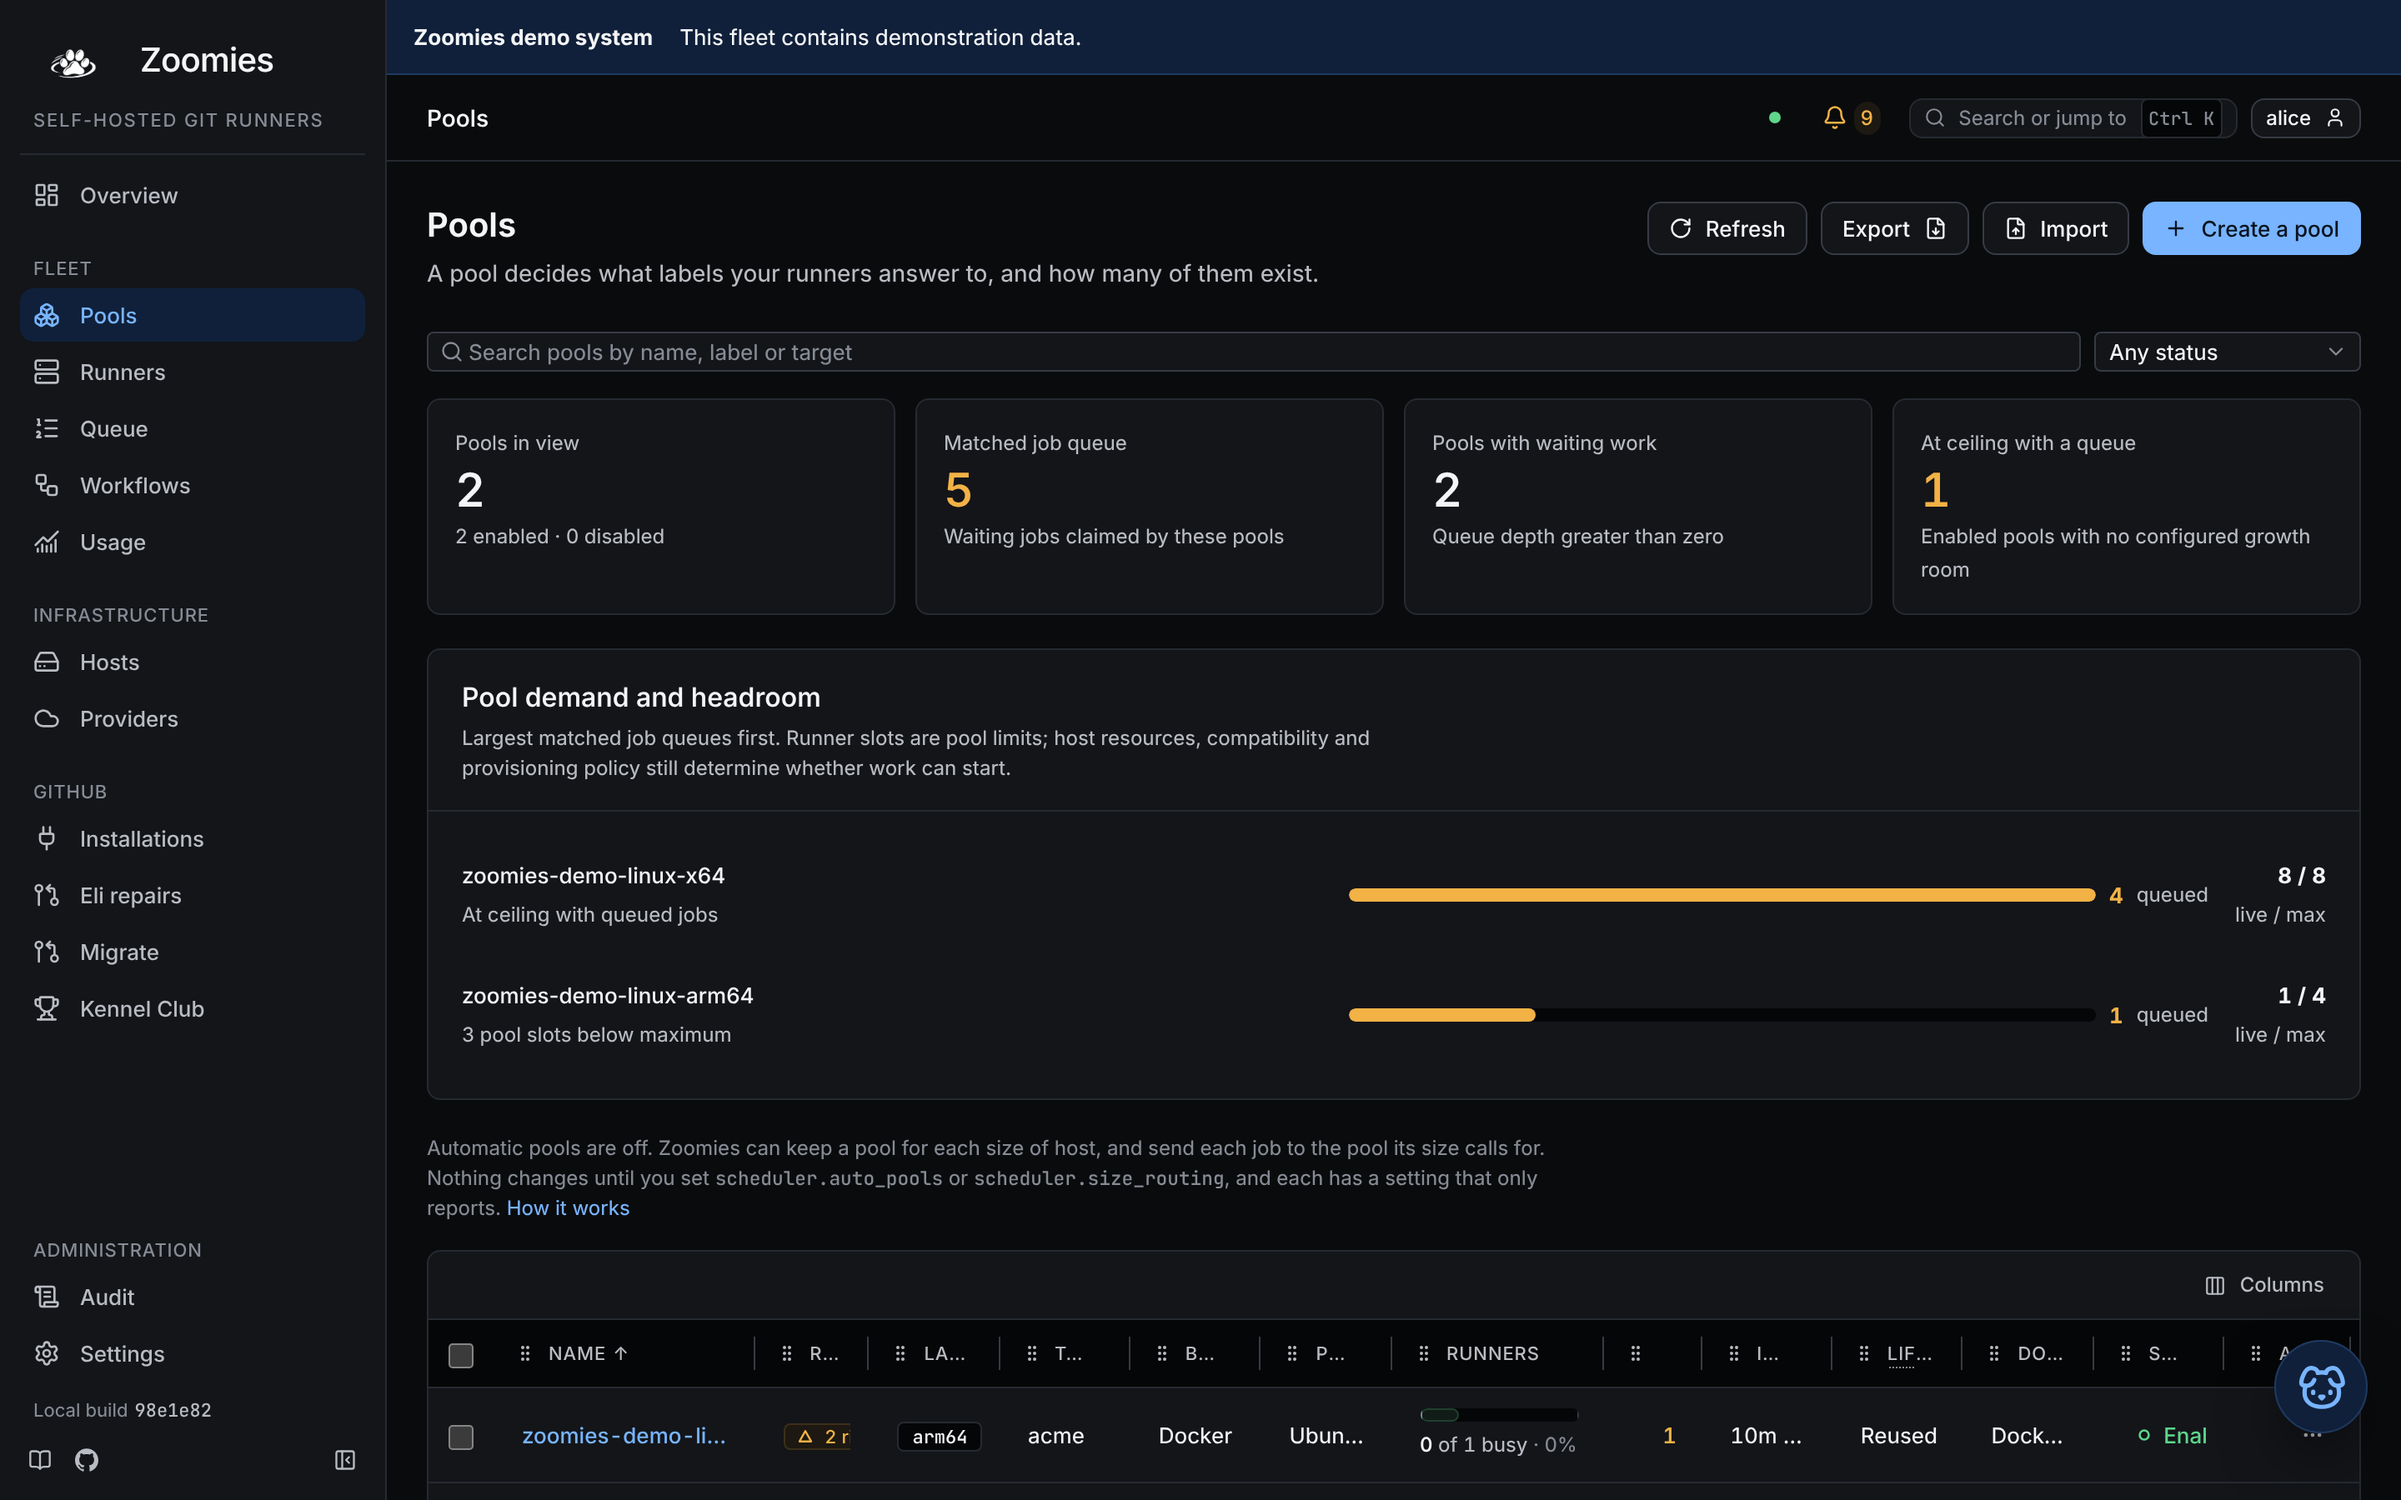
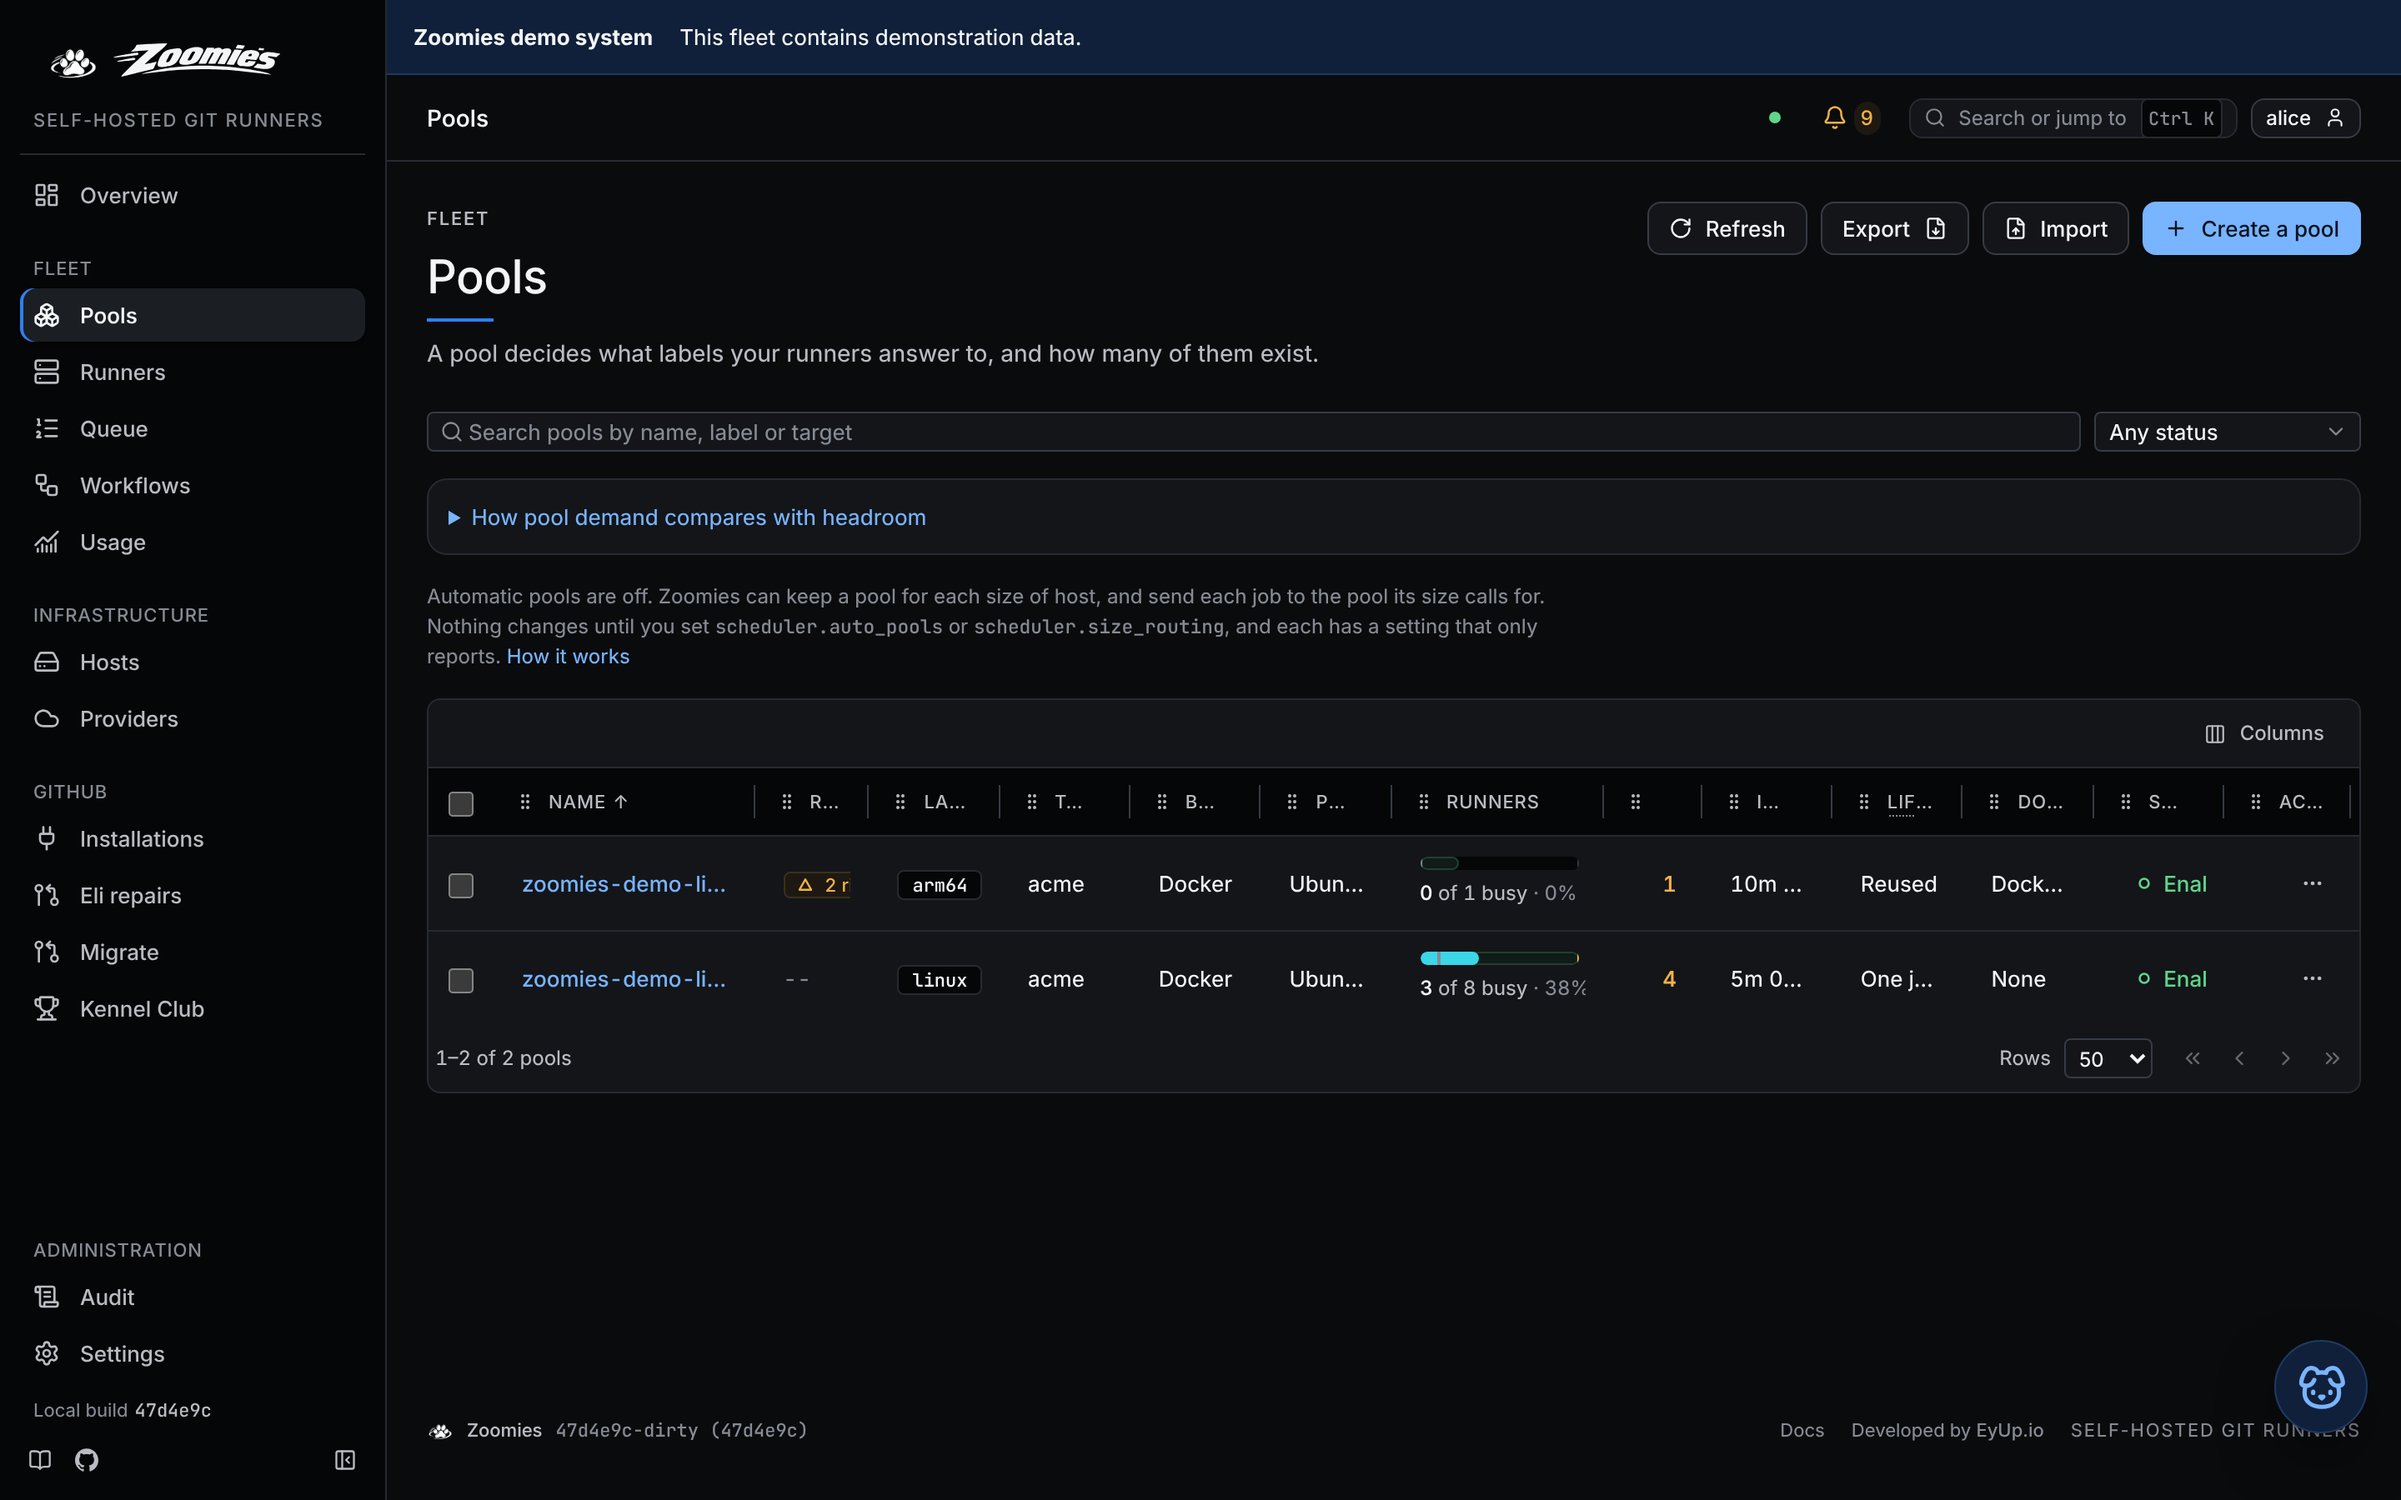
Open the Pools page on the pools
The four tiles go and how demand compares with headroom folds behind a
disclosure, as the Runners page keeps its lifecycle.

Claude-Session: https://claude.ai/code/session_01GkdhFBr16YDz8GRKZd9MHf

diff --git a/web/src/routes/Pools.svelte b/web/src/routes/Pools.svelte
@@ -697,7 +697,13 @@
   </FilterBar>
 </div>
 
-<PoolPressure pools={fleet.pools.filter(matches)} />
+<!-- The table is what a person came for, and it carries every pool's own figures. The
+     tiles that repeated them are gone, and how demand compares with headroom is one
+     disclosure away, as the Runners page keeps its lifecycle. -->
+<details class="demand">
+  <summary>How pool demand compares with headroom</summary>
+  <PoolPressure pools={fleet.pools.filter(matches)} summary={false} />
+</details>
 
 <AutoPoolsPanel status={autoStatus} />
 
@@ -762,6 +768,21 @@
 </ConfirmDialog>
 
 <style>
+  .demand {
+    margin: 0 0 var(--z-space-4);
+  }
+  .demand summary {
+    padding: var(--z-space-3);
+    border: var(--z-border-width) solid var(--z-border);
+    border-radius: var(--z-radius-lg);
+    background: var(--z-surface);
+    color: var(--z-accent);
+    font-size: var(--z-text-sm);
+    cursor: pointer;
+  }
+  .demand[open] summary {
+    margin-bottom: var(--z-space-3);
+  }
   .filters {
     margin-bottom: var(--z-space-4);
   }

diff --git a/web/tests/visual-insights.spec.ts b/web/tests/visual-insights.spec.ts
@@ -223,6 +223,9 @@ for (const route of [
       await goto(page, route.path, route.heading);
       // The Hosts page folds its map away until it is asked for.
       if (route.path === '/hosts') await openHostCapacityMap(page);
+      // The Pools page keeps demand and headroom behind a disclosure, as Runners keeps its lifecycle.
+      if (route.path === '/pools')
+        await page.getByText('How pool demand compares with headroom', { exact: true }).click();
       // The Runners page keeps its lifecycle behind a disclosure.
       if (route.path === '/runners')
         await page.getByText('How runners move through their states', { exact: true }).click();

diff --git a/docs/ui.md b/docs/ui.md
@@ -161,10 +161,13 @@ pool) without leaving the keyboard.
 What runners to make. Each pool's labels, GitHub target, backend, floor and
 ceiling, idle timeout, whether its runners are ephemeral and whether jobs get a
 Docker daemon, and a risk badge on any pool that trades some of the default
-safety away, so the trade is visible from the list.
+safety away, so the trade is visible from the list. The page opens on that list;
+how queue pressure compares with configured headroom is behind a disclosure,
+**How pool demand compares with headroom**, as the Runners page keeps its
+lifecycle.
 
-![The Pools page: queue pressure and configured headroom above each pool's runner and configuration details](screenshots/pools-dark.webp#only-dark){ .zoomies-shot }
-![The Pools page: queue pressure and configured headroom above each pool's runner and configuration details](screenshots/pools-light.webp#only-light){ .zoomies-shot }
+![The Pools page: the pool list with a folded explanation of queue pressure and headroom above it](screenshots/pools-dark.webp#only-dark){ .zoomies-shot }
+![The Pools page: the pool list with a folded explanation of queue pressure and headroom above it](screenshots/pools-light.webp#only-light){ .zoomies-shot }
 
 The page that creates one is the pool editor. It is six sections (**Name and
 labels**, **Hosts**, **Runner**, **Size**, **Scaling** and **Speed-ups**) and
